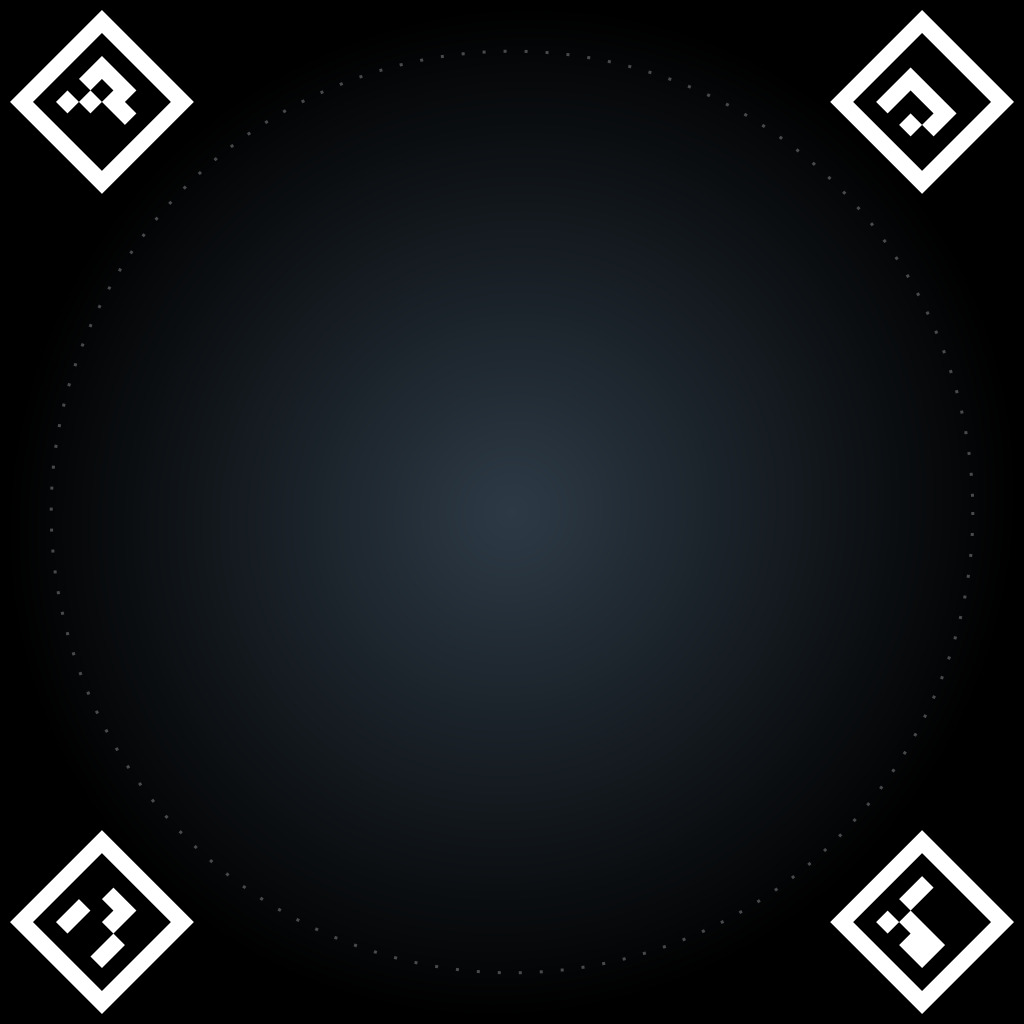
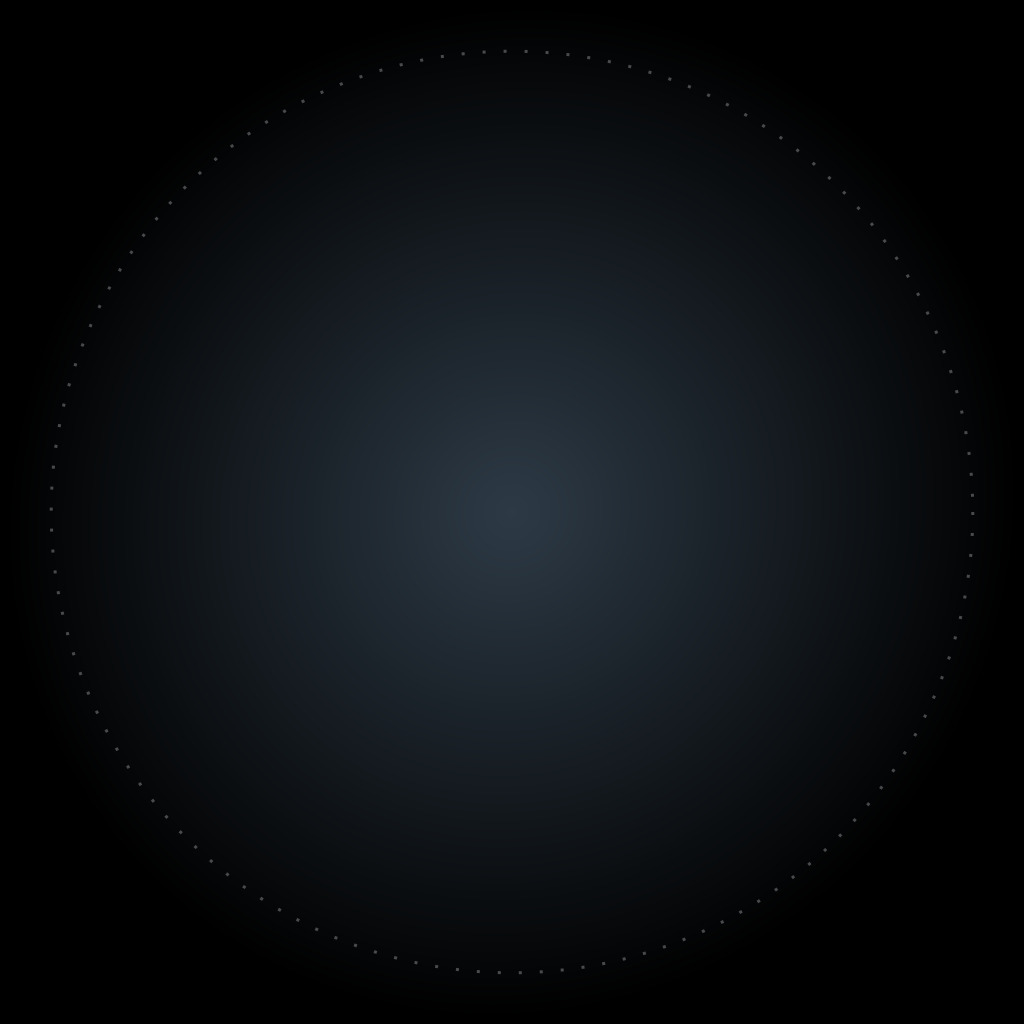
Dissociate tags and board

diff --git a/game/gyropong.py b/game/gyropong.py
@@ -43,6 +43,12 @@ imgBg.anchor_y = imgBg.height // 2
 sBg = pyglet.sprite.Sprite(img=imgBg, x=window.width//2, y=window.height//2)
 gamestate['sprites']['bg'] = sBg
 
+imgBoardTags = pyglet.resource.image("board_tags.png")
+imgBoardTags.anchor_x = imgBoardTags.width // 2
+imgBoardTags.anchor_y = imgBoardTags.height // 2
+sBoardTags = pyglet.sprite.Sprite(img=imgBoardTags, x=window.width//2, y=window.height//2)
+gamestate['sprites']['board_tags'] = sBoardTags
+
 imgPaddle = pyglet.resource.image("paddle.png")
 imgPaddle.anchor_x = 0
 imgPaddle.anchor_y = imgPaddle.height //2
@@ -78,6 +84,7 @@ def on_draw():
 def on_resize(width, height):
     scale = min(width, height)/min(imgBg.width, imgBg.height)
     sBg.update(x=width//2, y=height//2, scale=scale)
+    sBoardTags.update(x=width//2, y=height//2, scale=scale)
     sPaddle1.scale = scale
     sPaddle2.scale = scale
     sBall.scale = scale

diff --git a/game/screens/wait_players.py b/game/screens/wait_players.py
@@ -34,5 +34,5 @@ class WaitPlayersScreen(Screen):
            gamestate['game'].change_screen('match')
 
     def draw(self):
-        super().draw(['bg', 'paddle1', 'paddle2'])
+        super().draw(['bg', 'board_tags', 'paddle1', 'paddle2'])
 
